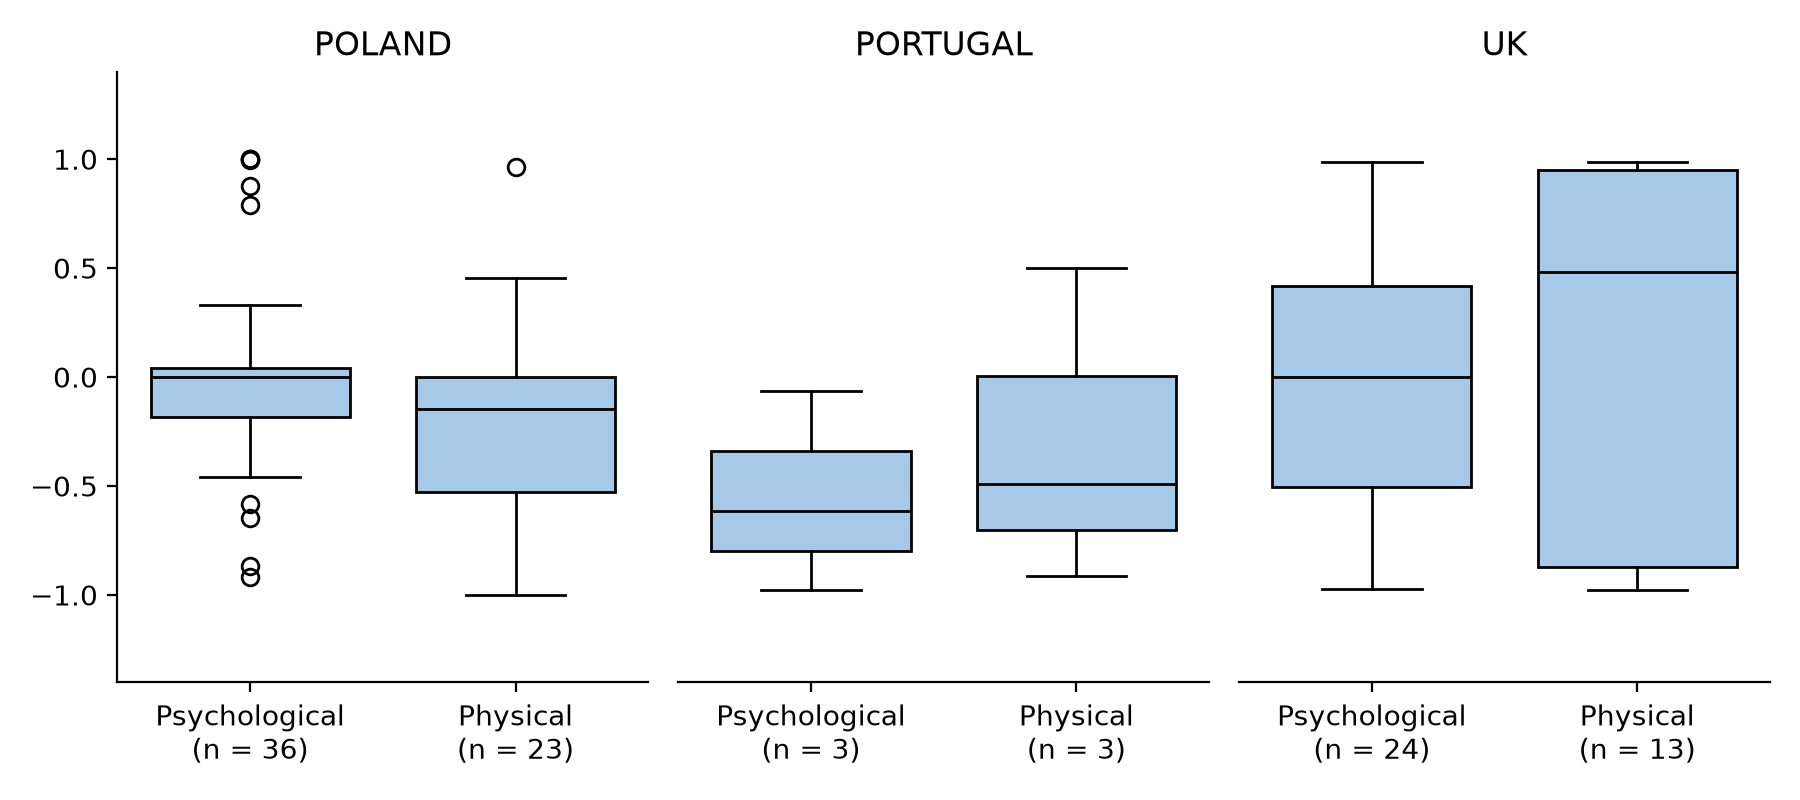
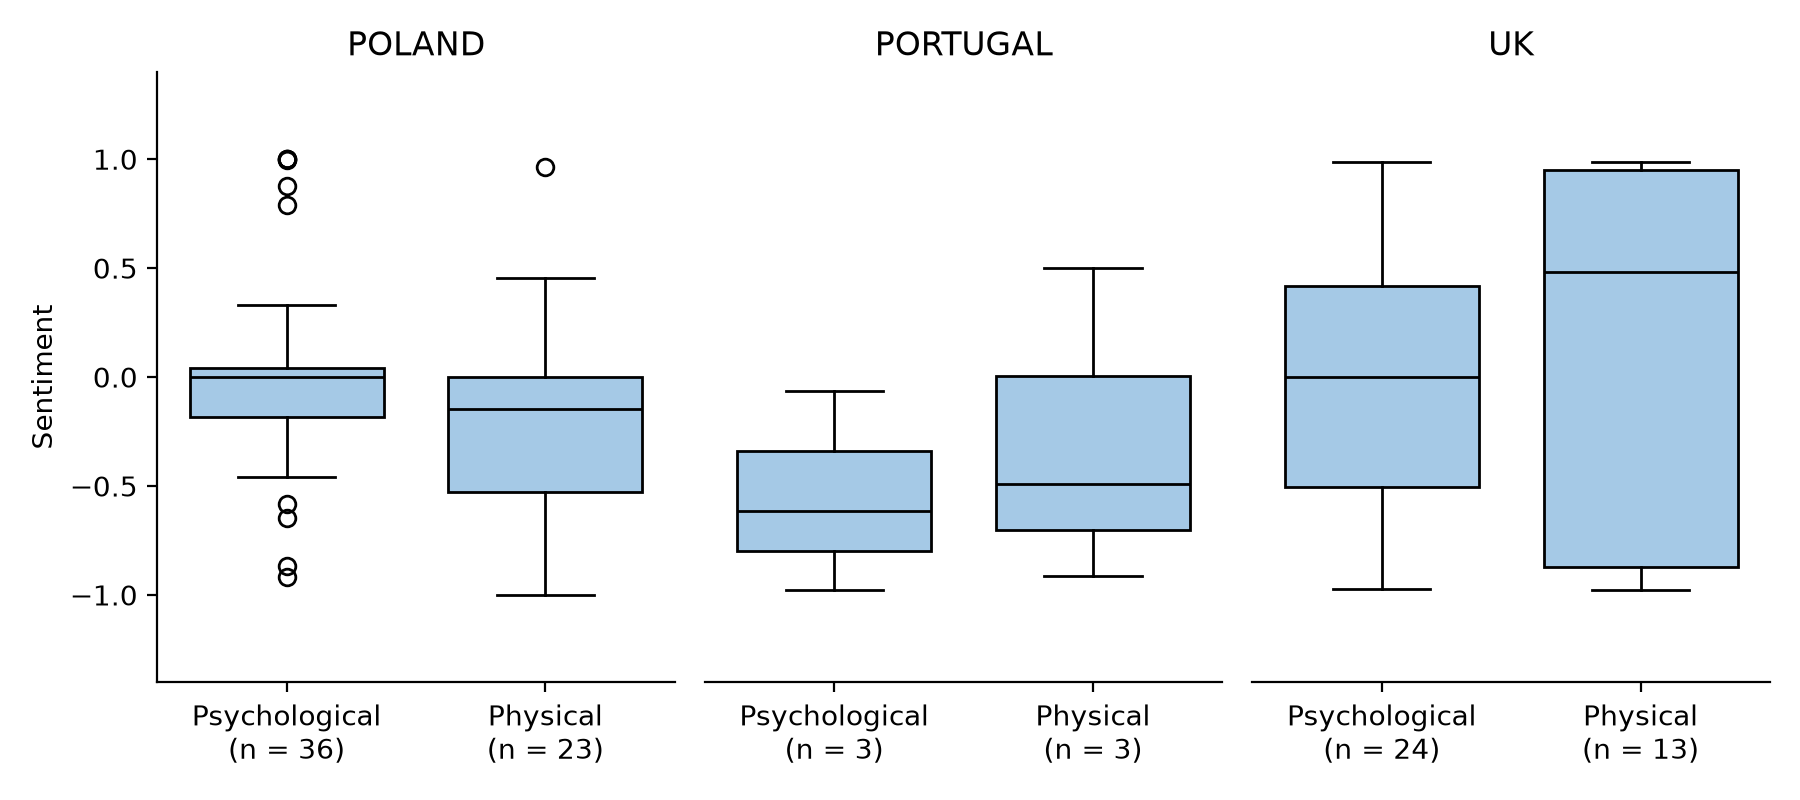
Sentiment described. Maybe tests withing countries will be necessary.

diff --git a/scripts/food_chapter_analyze_sentiment.py b/scripts/food_chapter_analyze_sentiment.py
@@ -4,6 +4,7 @@ import pandas as pd
 from pathlib import Path
 import numpy as np
 import matplotlib.pyplot as plt
+from matplotlib import rc
 from scipy.stats import median_test
 
 # %%
@@ -16,13 +17,16 @@ PNG = ROOT / "png"
 map_sentiment = {"positive": 1, "negative": -1}
 
 COLORS = {"yellow": "#E6B830", "blue": "#A5C9E6", "green": "#73C0C1"}
+font = {"size": 10}
+
+rc("font", **font)
 
 
 # %%
 ## Define functions
 def plot_boxplot(
     df: pd.DataFrame,
-    tick_labels: list = ["Reflecisve", "Automatic"],
+    tick_labels: list = ["Reflective", "Automatic"],
     left_query: str = "mot_refl",
     right_query: str = "mot_auto",
     COLORS: list = [COLORS["yellow"], COLORS["yellow"]],
@@ -66,6 +70,7 @@ def plot_boxplot(
         for spin in axs[n].spines:
             if spin != "bottom" and spin != "left" and n == 0:
                 axs[n].spines[spin].set_visible(False)
+                axs[n].set_ylabel("Sentiment")
             elif n != 0 and spin != "bottom":
                 axs[n].spines[spin].set_visible(False)
                 axs[n].get_yaxis().set_visible(False)
@@ -173,6 +178,6 @@ fig.tight_layout()
 fig.savefig(PNG / "opportunities_sentiment.png", dpi=200)
 # %%
 ## Poland vs UK
-test_median(df_cap)
+test_median(df_opp)
 
 # %%